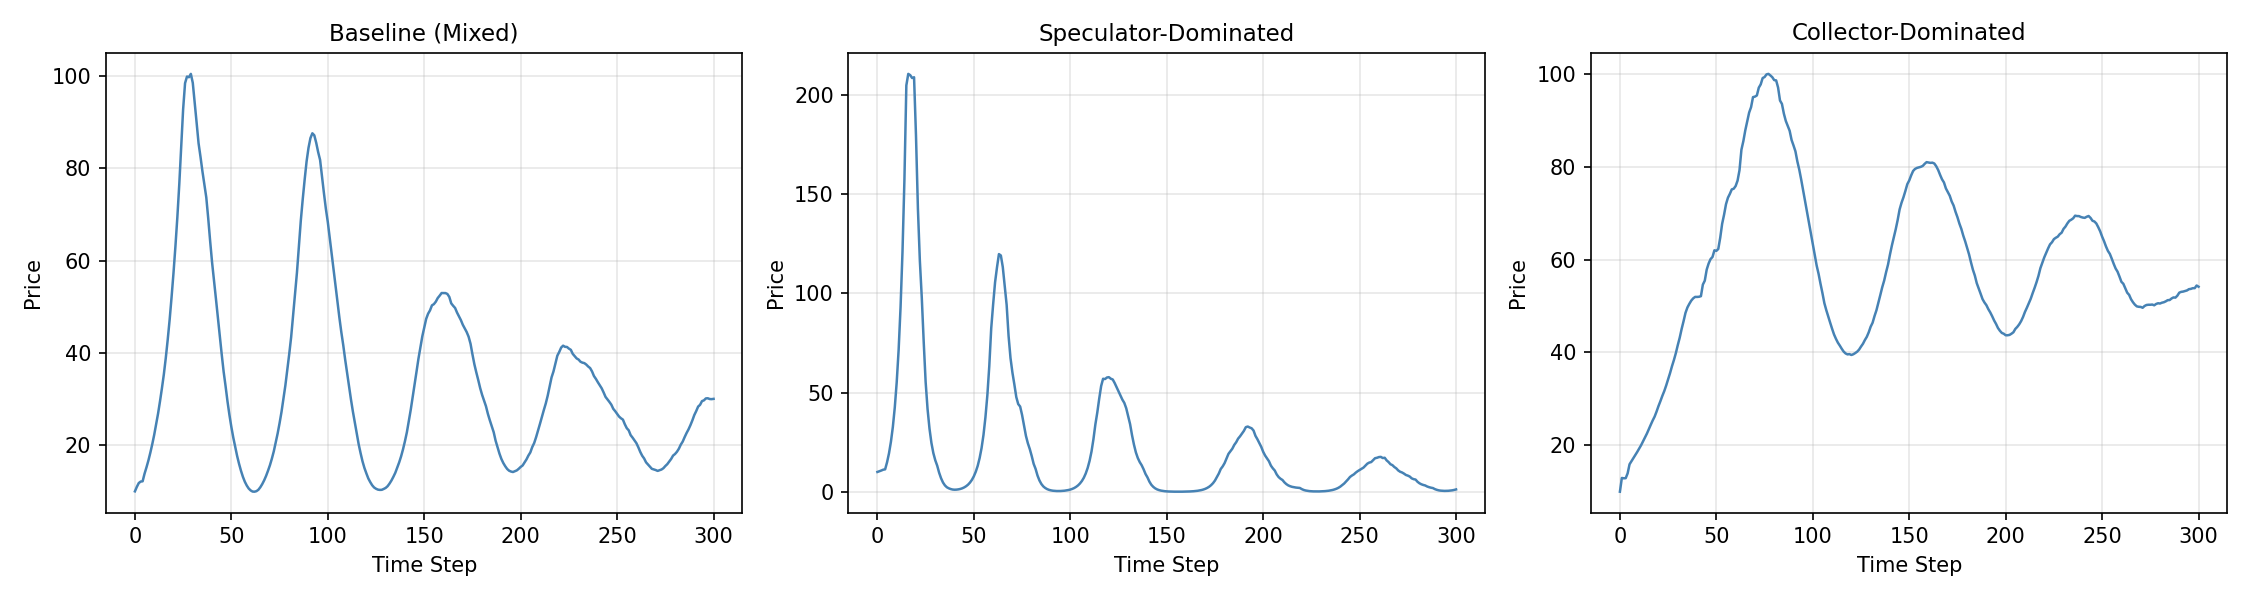
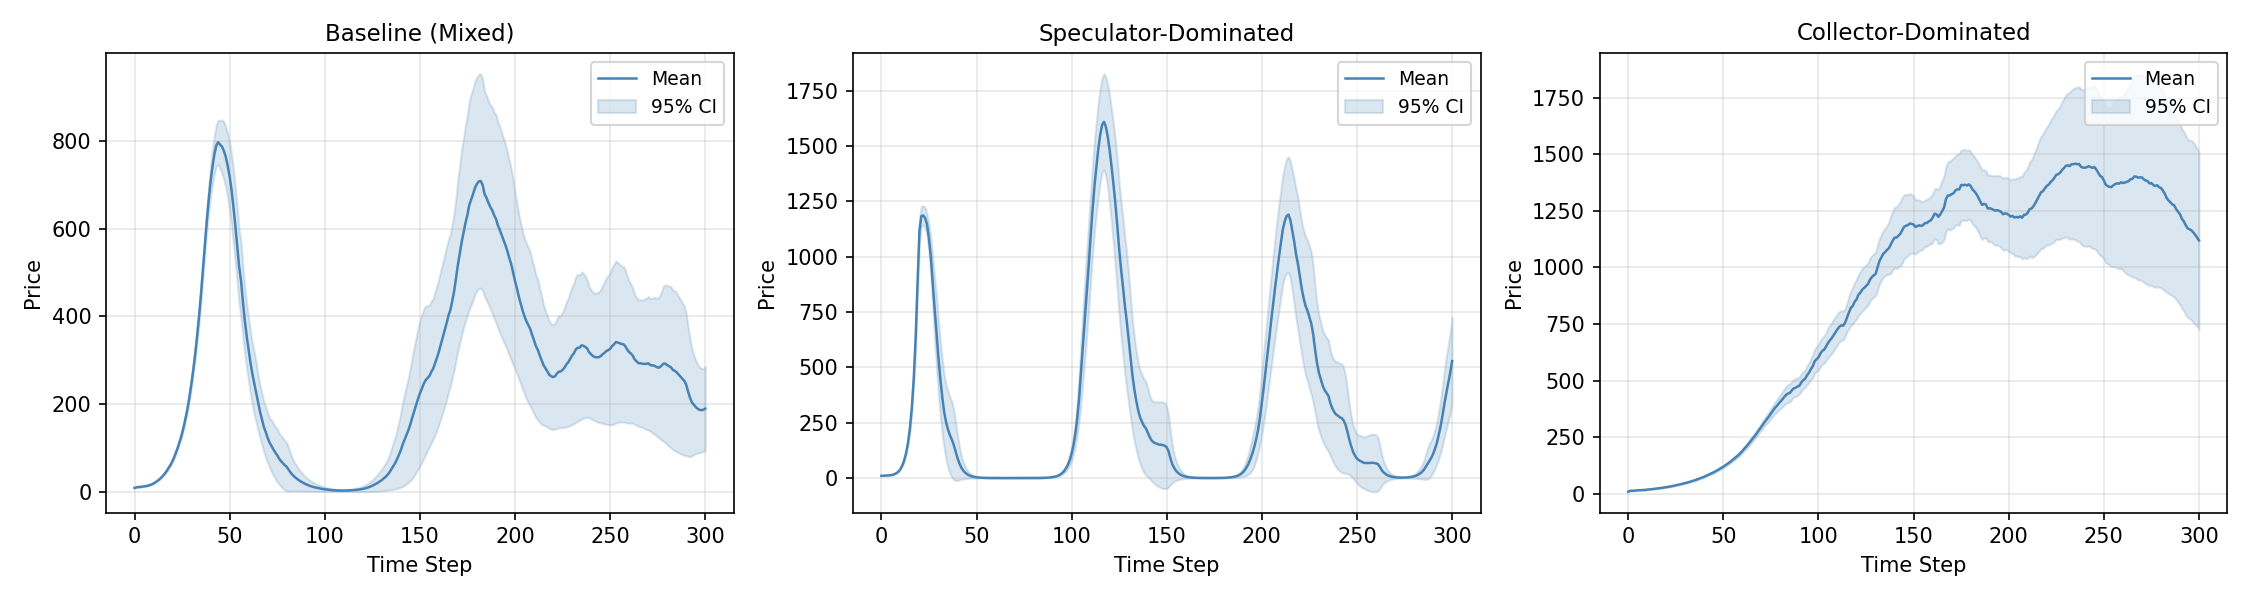
v2: log-return price model, order matching, agent heterogeneity

diff --git a/market.py b/market.py
@@ -1,31 +1,71 @@
-#this file handles the price and trades
+"""
+Market module: marketplace simulation for the agent-based virtual goods
 
+The Market class handles price formation and trade execution per simulation tick.
+- Agents submit buy/sell orders, and the market matches viable buyers to sellers
+- Trades are executed with the platform's transaction fee deducted from the seller's proceeds
+- The price is updated using a log-return based on the imbalance between buy and sell intent
+- Log-returns are used to avoid multiplicative feedback
+"""
 import random
+import math
 
-#this class keeps track of the current price and the history of past prices
-#the price is updated based on the net demand from buy/sell orders and some random noise to simulate market unpredictability
-#trades are executed by adjusting the agent's balance and inventory based on their actions and the current price
 class Market:
-    def __init__(self, initial_price=10.0):
-        self.price = initial_price
-        self.price_history = [initial_price]
+    def __init__(self, initial_price=10.0, n_agents=20, demand_sensitivity=0.5,
+                 noise_std=0.01, transaction_fee=0.0):
+        #core market state - changes as the simulation runs
+        self.price = initial_price #current market price
+        self.initial_price = initial_price #starting price        
+        self.price_history = [initial_price] #list of every price the item has had
 
+        #calibration parameters - control how the market behaves
+        self.n_agents = n_agents #total players in the simulation
+        self.demand_sensitivity = demand_sensitivity #how strongly demand moves price
+        self.noise_std = noise_std #background market noise level
+        self.transaction_fee = transaction_fee #platform's cut (e.g. 0.15 = Steam's 15%)
+
+        #tracking variables for analysis
+        self.trades_executed = [] #number of trades per tick (volume series)
+        self.trade_log = [] #individual trades (buyer_id, seller_id, price)
+        self.fees_collected = 0.0 #running total of platform revenue
+
+    #runs once per simulation tick to match orders, execute trades, and update price
     def execute(self, orders):
-        buys = sum(1 for action, _ in orders if action == 'buy')
-        sells = sum(1 for action, _ in orders if action == 'sell')
-        
-        net_demand = buys - sells
-        price_change = net_demand * 0.02 * self.price
-        
-        noise = random.gauss(0, 0.01 * self.price)
-        self.price = max(0.01, self.price + price_change + noise)
-        
-        for action, agent in orders:
-            if action == 'buy' and agent.balance >= self.price:
-                agent.balance -= self.price
-                agent.inventory += 1
-            elif action == 'sell' and agent.inventory > 0:
-                agent.balance += self.price
-                agent.inventory -= 1
+        #filter out buyers who can't afford and sellers who have no stock
+        buyers = [a for action, a in orders if action == 'buy' and a.balance >= self.price]
+        sellers = [a for action, a in orders if action == 'sell' and a.inventory > 0]
 
+        #shuffle so every buyer has an equal chance of being matched, and vice versa
+        random.shuffle(buyers)
+        random.shuffle(sellers)
+
+        #matching rule: only the smaller group's worth of trades can execute
+        num_trades = min(len(buyers), len(sellers))
+        for i in range(num_trades):
+            buyer = buyers[i]
+            seller = sellers[i]
+
+            #buyer pays the full listed price; seller receives price minus the platform fee
+            fee = self.price * self.transaction_fee
+            buyer.balance -= self.price
+            buyer.inventory += 1
+            seller.balance += self.price - fee
+            seller.inventory -= 1
+
+            #update tracking
+            self.fees_collected += fee
+            self.trade_log.append((buyer.agent_id, seller.agent_id, self.price))
+
+        #record trade volume for this tick
+        self.trades_executed.append(num_trades)
+
+        #update price based on the imbalance of intent so unfilled demand still pushes price
+        #normalised by population so results don't depend mechanically on agent count
+        net_demand = (len(buyers) - len(sellers)) / self.n_agents
+        noise = random.gauss(0, self.noise_std)
+        log_return = self.demand_sensitivity * net_demand + noise
+
+        #apply the percentage change
+        #max() floor stops price ever reaching zero.
+        self.price = max(0.01, self.price * math.exp(log_return))
         self.price_history.append(self.price)

diff --git a/agents.py b/agents.py
@@ -1,51 +1,84 @@
-#this file defines the different types of traders in the marketplace
+"""
+Agent module: defines the trader types in the marketplace.
 
+Each agent type implements decide(), returning 'buy', 'sell', or 'hold' based on the current market price and price history.
+Agents are heterogeneous within types.
+Parameters such as activity rate, target inventory, lookback window and reaction threshold are randomised at creation time.
+"""
 import random
 
-#base class for all agents where each agent has an ID, balance and inventory
 class Agent:
     def __init__(self, agent_id, balance=1000.0, inventory=5):
         self.agent_id = agent_id
-        self.balance = balance
-        self.inventory = inventory
+        self.balance = balance #Steam wallet balance
+        self.inventory = inventory #number of items currently held
 
-    #decide() method - should they buy, sell or hold?
     def decide(self, market_price, price_history):
         raise NotImplementedError
 
-#random low-effort trader who buys/sells with 10% probability
-#represents users who hoard items for fun or nostalgia, not profit
+#CasualTrader: barely engages with the market
+#acts randomly when active, otherwise holds
+#represents the "noise trader" archetype
 class CasualTrader(Agent):
+    def __init__(self, *args, **kwargs):
+        super().__init__(*args, **kwargs)
+        self.activity_rate = random.uniform(0.05, 0.15) #each casual has a slightly different activity rate (5%-15%)
+
     def decide(self, market_price, price_history):
-        if random.random() < 0.1:
+        if random.random() < self.activity_rate:
             return random.choice(['buy', 'sell', 'hold'])
         return 'hold'
 
-#represents the patient users whose aim is to collect items
-#they buy when prices are low and hold until they have a complete set, then stop trading
+#Collector: patient buyer trying to complete a set
+#buys when prices look reasonable relative to the recent average
+#sometimes sells duplicates when over-stocked
 class Collector(Agent):
-    def __init__(self, *args, target_inventory=10, **kwargs):
+    def __init__(self, *args, **kwargs):
+        target_inventory = kwargs.pop('target_inventory', None)
         super().__init__(*args, **kwargs)
-        self.target_inventory = target_inventory
+        #heterogeneity: each collector wants a different set size (8-15) and has a different willingness to overpay (2%-10% above recent mean)
+        self.target_inventory = target_inventory or random.randint(8, 15)
+        self.price_tolerance = random.uniform(1.02, 1.10)
 
     def decide(self, market_price, price_history):
+        #buy if items are still needed, are affordable, and price is within personal tolerance band above the recent average
         if self.inventory < self.target_inventory and self.balance > market_price:
-            if market_price < self._mean_price(price_history) * 1.05:
+            recent_mean = self._mean_price(price_history)
+            if market_price < recent_mean * self.price_tolerance:
                 return 'buy'
+            
+        #small chance of selling duplicates if over-stocked
+        if self.inventory > self.target_inventory and random.random() < 0.05:
+            return 'sell'
         return 'hold'
 
     def _mean_price(self, price_history):
-        return sum(price_history[-20:]) / len(price_history[-20:]) if price_history else 1
+        if not price_history:
+            return 1
+        window = price_history[-20:]
+        return sum(window) / len(window)
 
-#represents the profit-seeking users who try to time the market
+#Speculator: trend-follower
+#buys when prices are rising, sells when falling
+#reacts to percentage changes rather than absolute changes, so the strategy is consistent across different price levels
 class Speculator(Agent):
-    def decide(self, market_price, price_history):
-        if len(price_history) < 5:
-            return 'hold'
-        recent_trend = price_history[-1] - price_history[-5]
+    def __init__(self, *args, **kwargs):
+        super().__init__(*args, **kwargs)
+        #heterogeneity: each speculator uses a different lookback window (3-10) and has a different threshold before reacting to a trend (0%-2%)
+        self.lookback = random.randint(3, 10)
+        self.threshold = random.uniform(0.0, 0.02)
 
-        if recent_trend > 0 and self.balance > market_price:
+    def decide(self, market_price, price_history):
+        #need at least lookback+1 prices to compute a trend
+        if len(price_history) < self.lookback + 1:
+            return 'hold'
+
+        #convert absolute trend to a relative (percentage) trend so behaviour is consistent regardless of price level
+        recent_trend = price_history[-1] - price_history[-self.lookback]
+        relative_trend = recent_trend / price_history[-self.lookback]
+
+        if relative_trend > self.threshold and self.balance > market_price:
             return 'buy'
-        elif recent_trend < 0 and self.inventory > 0:
+        elif relative_trend < -self.threshold and self.inventory > 0:
             return 'sell'
         return 'hold'

diff --git a/visualisations.py b/visualisations.py
@@ -1,56 +1,85 @@
-import matplotlib.pyplot as plt
-import statistics
+"""
+Experiments module: runs the three population-mix experiments and produces the summary statistics and plots used in the Results chapter.
+
+Each experiment runs N_SEEDS times with different random seeds.
+- Reports the mean trajectory, 95% confidence intervals across runs, and summary statistics (mean price, volatility, peak price) with confidence intervals
+"""
+import csv
 import random
+import statistics
+import matplotlib.pyplot as plt
 from simulation import Simulation
 
+#three population-mix experiments
+#all other market parameters are at defaults
 experiments = {
-    "Baseline (Mixed)": {'casual': 10, 'collectors': 5,  'speculators': 5,  'steps': 300},
+    "Baseline (Mixed)":     {'casual': 10, 'collectors': 5,  'speculators': 5,  'steps': 300},
     "Speculator-Dominated": {'casual': 5,  'collectors': 2,  'speculators': 15, 'steps': 300},
-    "Collector-Dominated": {'casual': 5,  'collectors': 15, 'speculators': 2,  'steps': 300},
+    "Collector-Dominated":  {'casual': 5,  'collectors': 15, 'speculators': 2,  'steps': 300},
 }
 
-N_SEEDS = 30
+N_SEEDS = 30 #number of runs per experiment
 
+#run every experiment N_SEEDS times and collect the price trajectories
 def run_all():
     results = {}
     for name, config in experiments.items():
         runs = []
         for seed in range(N_SEEDS):
-            random.seed(seed)
+            random.seed(seed) #make each run reproducible
             sim = Simulation(config)
             prices = sim.run()
             runs.append(prices)
         results[name] = runs
     return results
 
+#plot mean price trajectory for each experiment with a 95% CI band
 def plot_experiments(results, save_path='experiment_results.png'):
     fig, axes = plt.subplots(1, 3, figsize=(15, 4))
     for ax, (name, runs) in zip(axes, results.items()):
         n_steps = len(runs[0])
+        #for each time step, compute mean and 95% CI across runs
         mean_traj = [statistics.mean([r[t] for r in runs]) for t in range(n_steps)]
-        ax.plot(mean_traj, color='steelblue', linewidth=1.2)
+        std_traj  = [statistics.stdev([r[t] for r in runs]) for t in range(n_steps)]
+        ci_traj   = [1.96 * s / (N_SEEDS ** 0.5) for s in std_traj]
+        upper = [m + c for m, c in zip(mean_traj, ci_traj)]
+        lower = [m - c for m, c in zip(mean_traj, ci_traj)]
+
+        ax.plot(mean_traj, color='steelblue', linewidth=1.2, label='Mean')
+        ax.fill_between(range(n_steps), lower, upper, color='steelblue',
+                        alpha=0.2, label='95% CI')
         ax.set_title(name, fontsize=11)
         ax.set_xlabel('Time Step')
         ax.set_ylabel('Price')
+        ax.legend(loc='upper right', fontsize=9)
         ax.grid(alpha=0.3)
     plt.tight_layout()
     plt.savefig(save_path, dpi=150)
     plt.close()
 
-def print_summary(results):
-    print("\nExperiment Summary (mean ± 95% CI across 30 seeds):")
+#helper: 95% confidence interval half-width for a list of values
+def ci(vals):
+    return 1.96 * statistics.stdev(vals) / (len(vals) ** 0.5)
+
+#print summary table to console and save to CSV for the dissertation
+def print_summary(results, save_path='experiment_summary.csv'):
+    print("\nExperiment Summary (mean ± 95% CI across {} seeds):".format(N_SEEDS))
+    rows = [['Experiment', 'Mean Price', 'Mean CI', 'Volatility',
+             'Volatility CI', 'Peak Price', 'Peak CI']]
     for name, runs in results.items():
         means = [statistics.mean(r) for r in runs]
         vols  = [statistics.stdev(r) for r in runs]
         peaks = [max(r) for r in runs]
-
-        def ci(vals):
-            return 1.96 * statistics.stdev(vals) / (len(vals) ** 0.5)
-
         print(f"\n{name}")
-        print(f"Mean Price: {statistics.mean(means):.3f} ± {ci(means):.3f}")
-        print(f"Volatility: {statistics.mean(vols):.3f} ± {ci(vols):.3f}")
-        print(f"Peak Price: {statistics.mean(peaks):.3f} ± {ci(peaks):.3f}")
+        print(f"  Mean Price: {statistics.mean(means):.3f} ± {ci(means):.3f}")
+        print(f"  Volatility: {statistics.mean(vols):.3f} ± {ci(vols):.3f}")
+        print(f"  Peak Price: {statistics.mean(peaks):.3f} ± {ci(peaks):.3f}")
+        rows.append([name,
+                     f"{statistics.mean(means):.3f}", f"{ci(means):.3f}",
+                     f"{statistics.mean(vols):.3f}",  f"{ci(vols):.3f}",
+                     f"{statistics.mean(peaks):.3f}", f"{ci(peaks):.3f}"])
+    with open(save_path, 'w', newline='') as f:
+        csv.writer(f).writerows(rows)
 
 if __name__ == '__main__':
     results = run_all()

diff --git a/simulation.py b/simulation.py
@@ -1,16 +1,35 @@
-#this file runs the simulation
+"""
+Simulation module: orchestrates the market and agent population across discrete time steps.
 
-import csv
+A simulation is built from a config dictionary.
+- Includes agent counts, market parameters, run length
+- Each tick, every agent decides on an action; the market matches buyers to sellers and updates the price
+- The full price history is returned for downstream analysis
+"""
 from agents import CasualTrader, Collector, Speculator
 from market import Market
 
-#this class builds the market and the population, runs the clock and saves the results
 class Simulation:
     def __init__(self, config):
-        self.market = Market(initial_price=config.get('initial_price', 10.0))
+        #total agent count is needed by the market for demand normalisation
+        n_agents = (config.get('casual', 10)
+                    + config.get('collectors', 5)
+                    + config.get('speculators', 5))
+
+        #build the market with calibration parameters from the config
+        #defaults are used for any parameter not specified in the config
+        self.market = Market(
+            initial_price=config.get('initial_price', 10.0),
+            n_agents=n_agents,
+            demand_sensitivity=config.get('demand_sensitivity', 0.5),
+            noise_std=config.get('noise_std', 0.01),
+            transaction_fee=config.get('transaction_fee', 0.0),
+        )
+
         self.agents = self._init_agents(config)
         self.steps = config.get('steps', 200)
 
+    #helper: build the population of agents based on counts in the config
     def _init_agents(self, config):
         agents = []
         aid = 0
@@ -22,6 +41,7 @@ class Simulation:
             agents.append(Speculator(aid)); aid += 1
         return agents
 
+    #main simulation loop: one iteration represents one round of market activity
     def run(self):
         for step in range(self.steps):
             orders = []